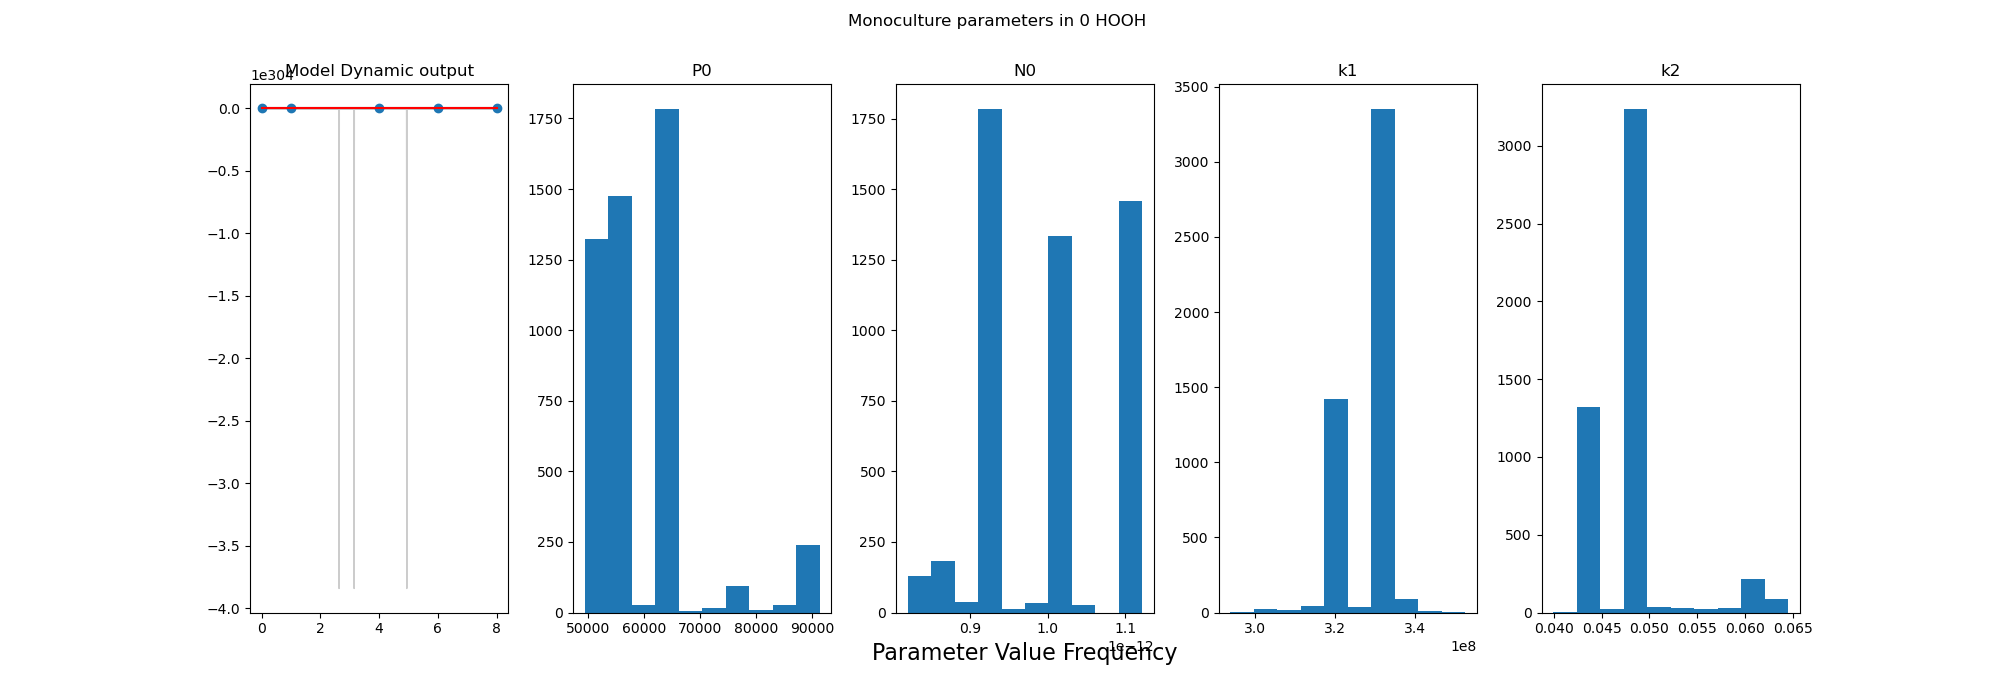
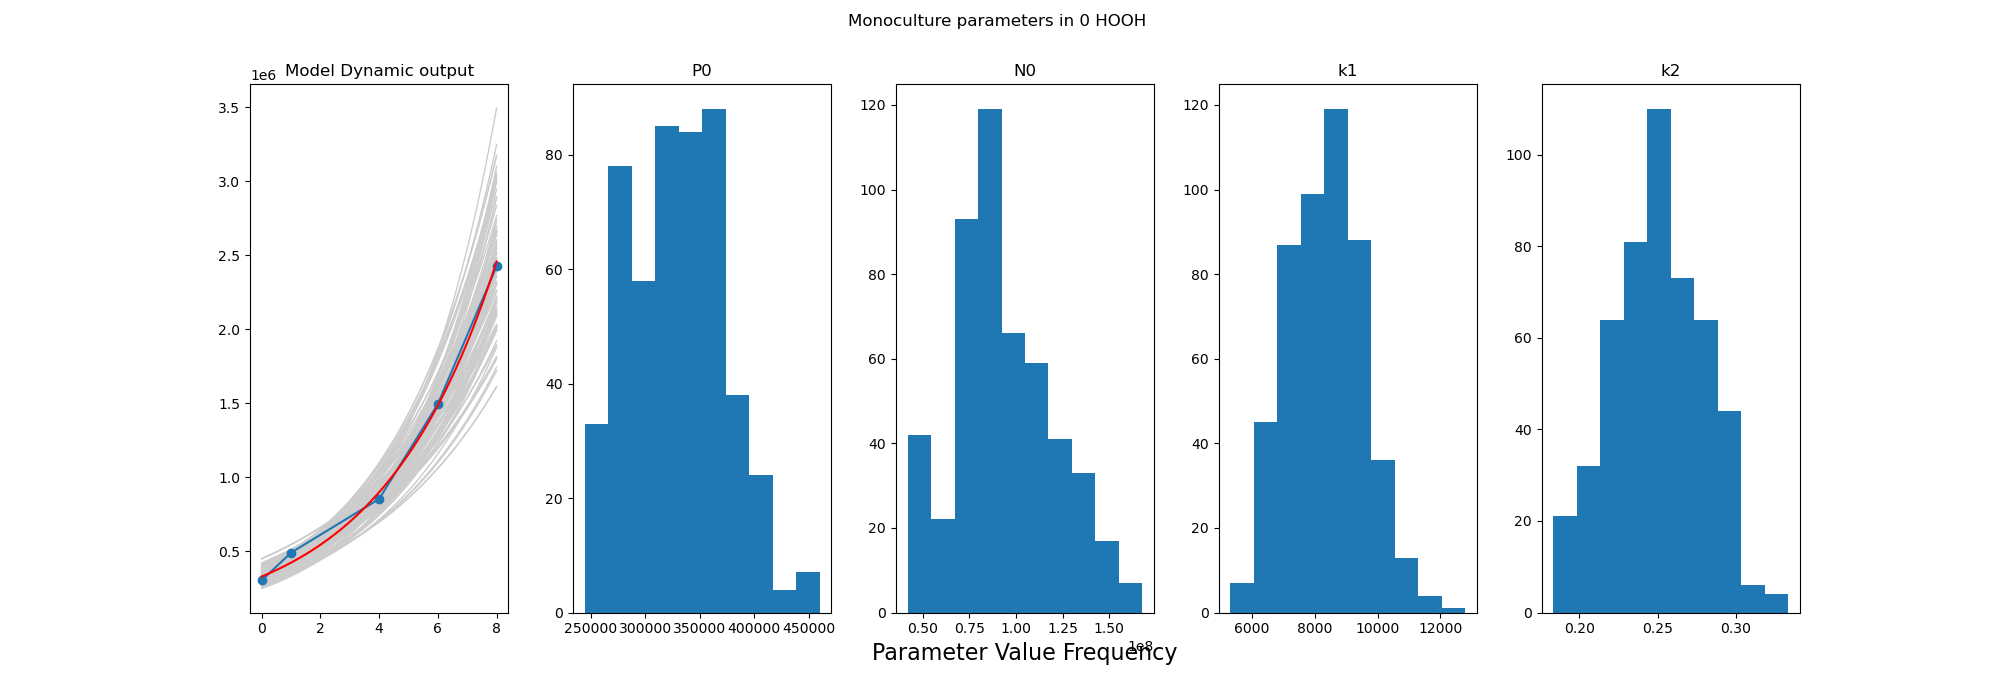
mono pro works

diff --git a/src/model_pro_batch.py b/src/model_pro_batch.py
@@ -55,7 +55,7 @@ df['stdlog1'] = df[['log1', 'log3']].std(axis=1) #taking stdv of logged reps
 df['stdlog2'] = df[['log2', 'log4']].std(axis=1)
 df['log_sigma'] = df[['log1','log2', 'log3','log4']].std(axis=1)
 
-
+df['log_sigma'] = 0.2
 
 #slicing data into abiotic, biotic, and Pro only dataframes
 df0 = df.loc[~ df['assay'].str.contains('4', case=False) & (df['Vol_number']== 1)]  #assay 0 H 
@@ -82,11 +82,11 @@ ax1.set_xlabel('Time (days)')#settign x axis label for graph 2
 #graph dataframe of even or odd avgs (for tech reps) to give avg of total bioreps 
 
 #graph 0 H assay even and odd avgs 
-ax0.errorbar(df0['time'],df0['abundance'],yerr=df0['std1'], marker='o', label = 'avg1')
-ax0.errorbar(df0['time'],df0['avg2'],yerr=df0['std2'], marker='v', label = 'avg2')
+ax0.errorbar(df0[df0['organism']== 'P']['time'],df0[df0['organism']== 'P']['abundance'],yerr=df0[df0['organism']== 'P']['std1'], marker='o', label = 'avg1')
+ax0.errorbar(df0[df0['organism']== 'P']['time'],df0[df0['organism']== 'P']['avg2'],yerr=df0[df0['organism']== 'P']['std2'], marker='v', label = 'avg2')
 # graph 400 H assay even and odd avgs
-ax1.errorbar(df4['time'],df4['abundance'],yerr=df4['std1'], marker='o', label = 'avg1')
-ax1.errorbar(df4['time'],df4['avg2'],yerr=df4['std2'], marker='v', label = 'avg2')
+ax1.errorbar(df4[df4['organism']== 'P']['time'],df4[df4['organism']== 'P']['abundance'],yerr=df4[df4['organism']== 'P']['std1'], marker='o', label = 'avg1')
+ax1.errorbar(df4[df4['organism']== 'P']['time'],df4[df4['organism']== 'P']['avg2'],yerr=df4[df4['organism']== 'P']['std2'], marker='v', label = 'avg2')
 
 plt.legend()
 
@@ -99,7 +99,7 @@ plt.legend()
 inits0 = pd.read_csv("../data/inits/pro9215_inits0.csv")
 
 #setting how many MCMC chains you will run 
-nits = 100000 # nits - INCREASE FOR MORE BELL CURVEY LOOKING HISTS of params
+nits = 1000 # nits - INCREASE FOR MORE BELL CURVEY LOOKING HISTS of params
 
 # state variable names
 snames = ['P','N'] #order must match all further model mentions (same fro params) 
@@ -132,7 +132,7 @@ def get_model(df):
                           k2 = k2_prior.copy(),
                           P0 = P0_prior.copy(),
                           N0  = N0_prior.copy(),
-                          t_steps=10000,
+                          t_steps=1000,
                           P = P0_mean,
                           N = N0_mean,
                             )
@@ -140,7 +140,7 @@ def get_model(df):
 
 def mono_0H(y,t,params): #no kdam or phi here (or make 0)
     k1,k2 = params[0], params[1]
-    P,N = y[0],y[1]
+    P,N = max(y[0],0),max(y[1],0),
     ksp=k2/k1 #calculating model param ks in loop but k1 and k2 are fed separately by odelib
     dPdt = (k2 * N /( (ksp) + N) )*P     
     dNdt =  - (k2 * N /( (ksp) + N) )*P
@@ -149,7 +149,7 @@ def mono_0H(y,t,params): #no kdam or phi here (or make 0)
 #df0.loc[:,'log_abundance'] = np.log(10**df0.log_abundance)
 
 # get_models
-a0 = get_model(df0) 
+a0 = get_model(df) 
 
 #broken here!!!!!!!!!!
 # do fitting
@@ -186,8 +186,8 @@ l3.draw_frame(False)
 
 #graphing data from df to see 2 different biological reps represented
 
-ax0.errorbar(df0['time'],df0['abundance'],yerr=df0['std1'], marker='o', label = 'avg1')
-ax0.errorbar(df0['time'],df0['avg2'],yerr=df0['std2'], marker='o', label = 'avg2')
+ax0.errorbar(df0[df0['organism']== 'P']['time'],df0[df0['organism']== 'P']['abundance'],yerr=df0[df0['organism']== 'P']['std1'], marker='o', label = 'avg1')
+ax0.errorbar(df0[df0['organism']== 'P']['time'],df0[df0['organism']== 'P']['avg2'],yerr=df0[df0['organism']== 'P']['std2'], marker='o', label = 'avg2')
 
 ax0.plot(mod0.time,mod0['P'],c='r',lw=1.5,label=' model best fit')
 
@@ -223,7 +223,7 @@ fig4.subplots_adjust(right=0.90, wspace = 0.25, hspace = 0.30)
 
 
 #graph data, model, and uncertainty 
-ax4[0].plot(df0.time, df0.abundance, marker='o',label = 'Pro Mono - 0 H ')
+ax4[0].plot(df0[df0['organism']== 'P']['time'], df0[df0['organism']== 'P']['abundance'], marker='o',label = 'Pro Mono - 0 H ')
 ax4[0].plot(mod0.time,mod0['P'],c='r',lw=1.5,label=' Model P best fit')
 a0.plot_uncertainty(ax4[0],posteriors0,'P',100)
 
